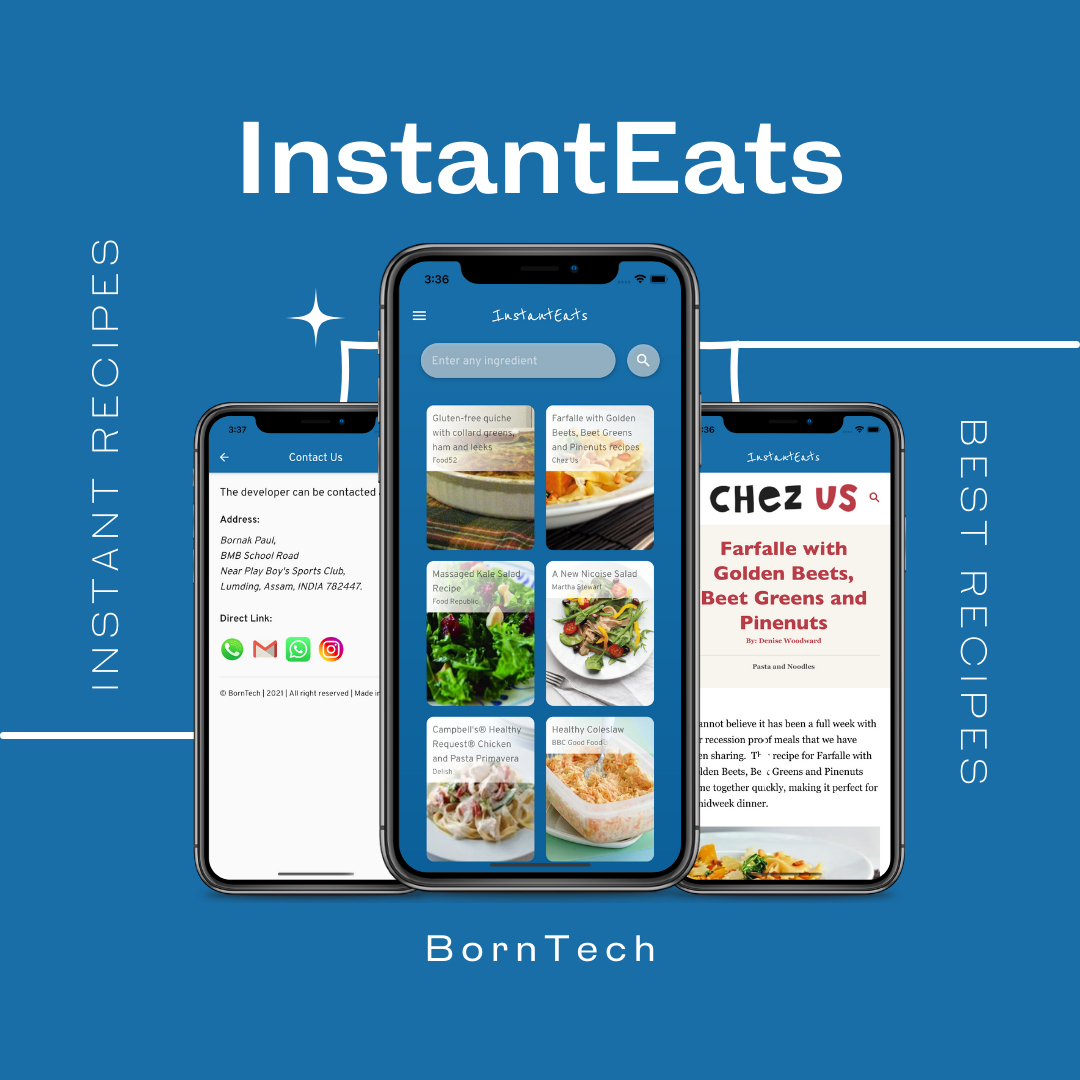
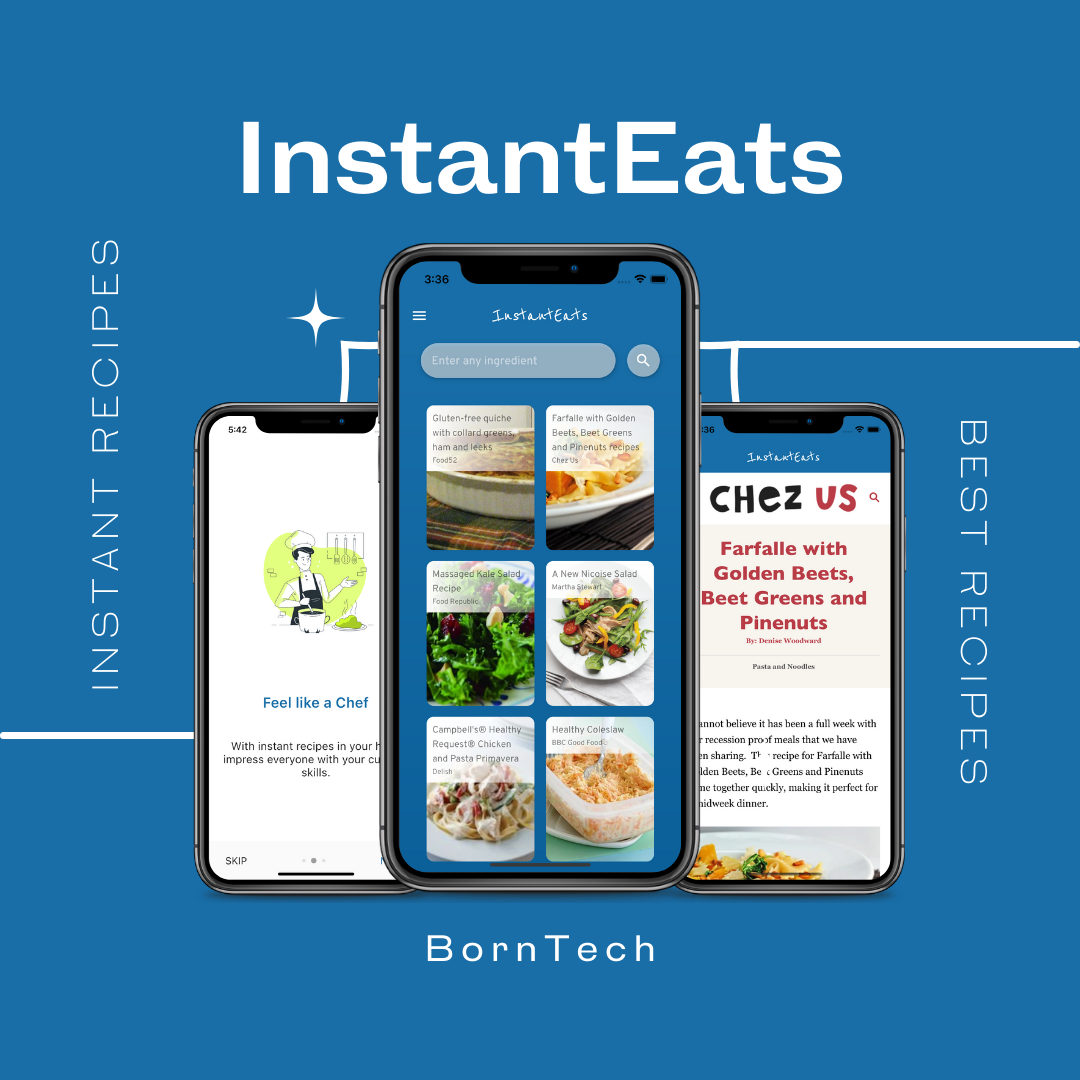
done

Changed region(s): [[0.1833, 0.3667, 0.3667, 0.6111], [0.2139, 0.6417, 0.3361, 0.7333], [0.275, 0.7944, 0.3056, 0.825]]

diff --git a/lib/screens/onboarding.dart b/lib/screens/onboarding.dart
@@ -92,7 +92,10 @@ class _OnboardingState extends State<Onboarding> {
                       },
                       child: Text(
                         "NEXT",
-                        style: TextStyle(fontSize: 18),
+                        style: TextStyle(
+                          fontSize: 18,
+                          color: Color(0xff186ea8),
+                        ),
                       )),
                 ],
               ),
@@ -143,7 +146,11 @@ class SliderTile extends StatelessWidget {
           ),
           Text(
             title!,
-            style: TextStyle(fontSize: 26, fontWeight: FontWeight.w600),
+            style: TextStyle(
+              fontSize: 26,
+              fontWeight: FontWeight.w600,
+              color: Color(0xff186ea8),
+            ),
           ),
           SizedBox(
             height: 52,
